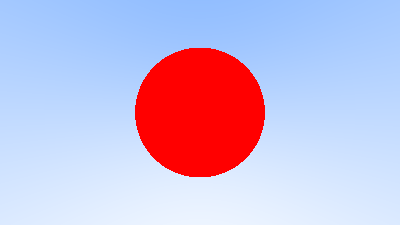
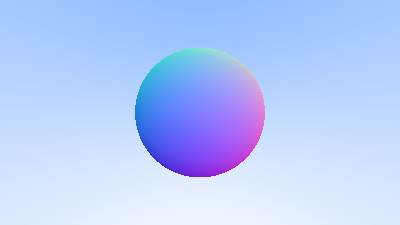
Coloring normals

Changed region(s): [[0.33, 0.1867, 0.66, 0.8089]]

diff --git a/src/main.cpp b/src/main.cpp
@@ -9,21 +9,28 @@
 #include <ray.hpp>
 #include <vec3.hpp>
 
-auto hit_sphere(const Point3 &center, double radius, const Ray &ray) -> bool {
+auto hit_sphere(const Point3 &center, double radius, const Ray &ray) -> double {
     auto vec = ray.origin() - center;
 
-    auto quadA = dot(ray.direction(), ray.direction());
-    auto quadB = 2.0 * dot(vec, ray.direction());
-    auto quadC = dot(vec, vec) - radius * radius;
+    auto quadA = ray.direction().length_squared();
+    auto quadH = dot(vec, ray.direction());
+    auto quadC = vec.length_squared() - radius * radius;
 
-    auto discriminant = quadB * quadB - 4 * quadA * quadC;
+    auto discriminant = quadH * quadH - quadA * quadC;
 
-    return discriminant >= 0;
+    if (discriminant < 0) {
+        return -1.0;
+    }
+
+    return (-quadH - sqrt(discriminant)) / quadA;
 }
 
 auto ray_color(const Ray &ray) noexcept -> Color {
-    if (hit_sphere(Point3{0, 0, -1}, 0.5, ray)) {
-        return Color{1, 0, 0};
+    auto rayTime = hit_sphere(Point3{0, 0, -1}, 0.5, ray);
+
+    if (rayTime > 0.0) {
+        Vec3 normal = unit_vector(ray.at(rayTime) - Vec3{0, 0, -1});
+        return 0.5 * Color(normal.x() + 1, normal.y() + 1, normal.z() + 1);
     }
 
     Vec3 unitDirection = unit_vector(ray.direction());
